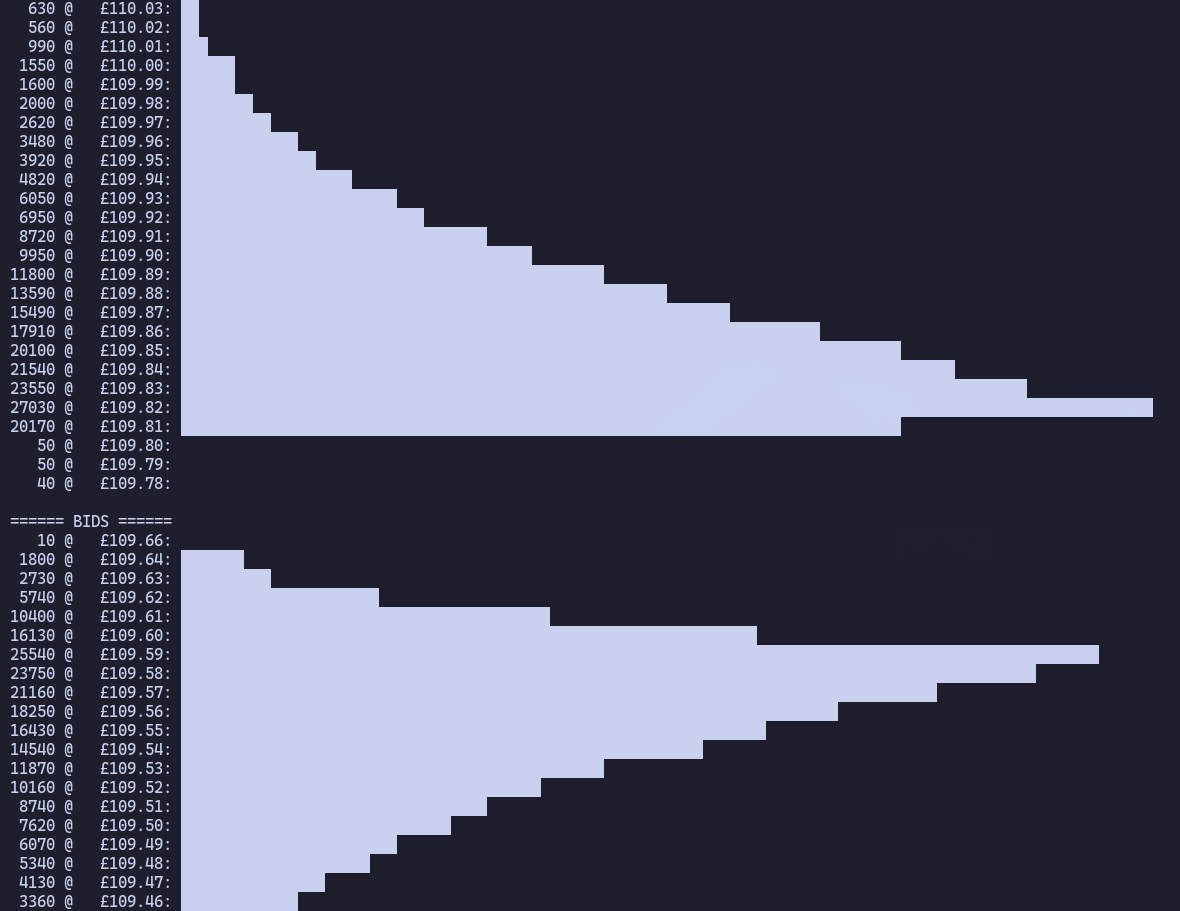
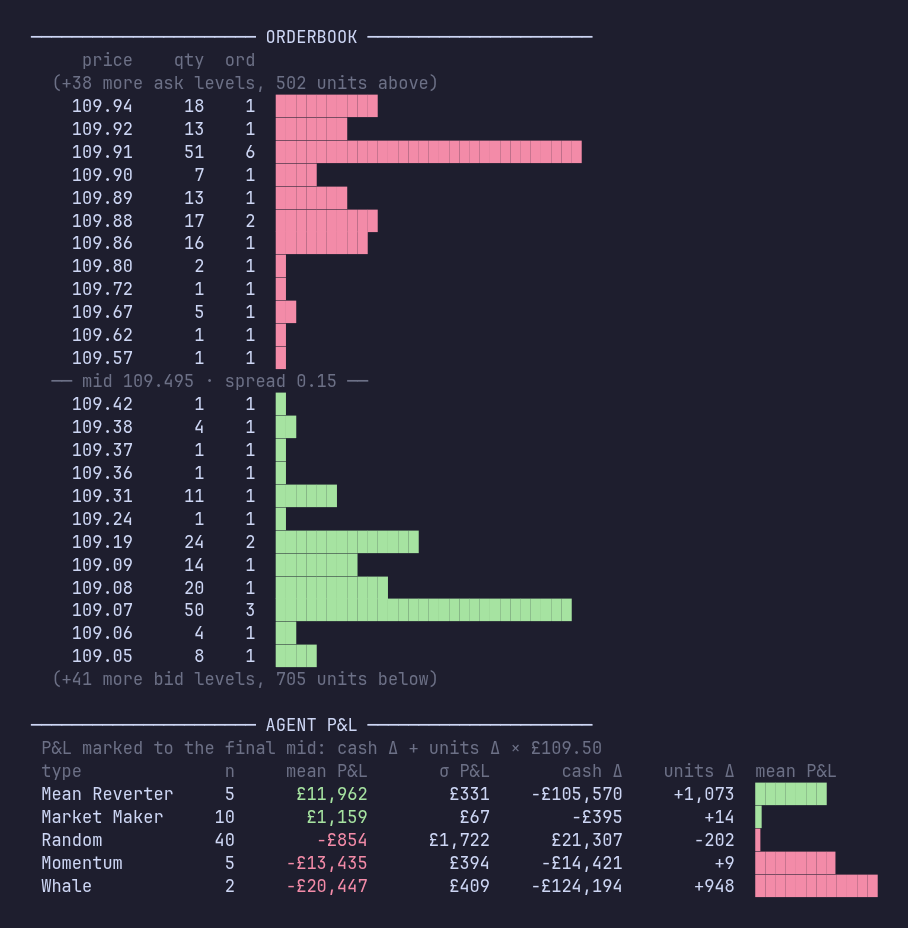
docs: refresh screenshots and benchmark figures
Regenerate all three README images from the current build: the orderbook
ladder + P&L leaderboard hero, the order-latency benchmark output (the old
image still showed the buggy 8.5M ops/sec figure), and the visualizer on a
fresh recording. Update benchmark numbers from three consistent runs on the
i7 4790K: ~4.6M ops/s at ~60ns median / ~80ns average, and agent throughput
~2.3-3.4M actions/s (~3.2-3.7M orders/s).

diff --git a/README.md b/README.md
@@ -18,7 +18,7 @@
   - Multithreaded simulation architecture
   - L3 FIFO orderbook with O(1) best bid/ask lookup
   - Custom order pool to minimize allocations
-  - Benchmarked at ~4.4M ops/sec with ~76ns median latency
+  - Benchmarked at ~4.6M ops/sec with ~60ns median latency
   - Browser-based record + replay visualizer with zero overhead in the normal build
 
 <h2>
@@ -118,9 +118,9 @@ This is an L3 implimentation of an orderbook, where we store individual orders a
 </h3>
 
 When benchmarking 5'000'000 orders (50/50 limit/market, quantities 1–20) with an additional ~250'000 cancellations of real resting orders, the orderbook achieves:
-  - **~4.4M operations per second**
-  - **median latency of ~76ns**
-  - **average latency of ~110ns**
+  - **~4.6M operations per second**
+  - **median latency of ~60ns**
+  - **average latency of ~80ns**
   - **99.99% percentile orders at ~10'000ns**
 
 <p align="center">
@@ -168,7 +168,7 @@ Whales submit a single large market order on a random side each time they act, s
   Agent benchmarks
 </h3>
 
-A benchmark to measure performance of agents and their interactions with the orderbook is available and measures at increasing numbers of each type of agent: currently ~2–3.5M agent actions per second (~4–5M orders/s through the engine), roughly flat from 48 to 768 agents.
+A benchmark to measure performance of agents and their interactions with the orderbook is available and measures at increasing numbers of each type of agent: currently ~2.3–3.4M agent actions per second (~3.2–3.7M orders/s through the engine) from 48 to 768 agents, with actions/s declining gently as the agent count grows.
   
 <h3>
   Benchmarking information
